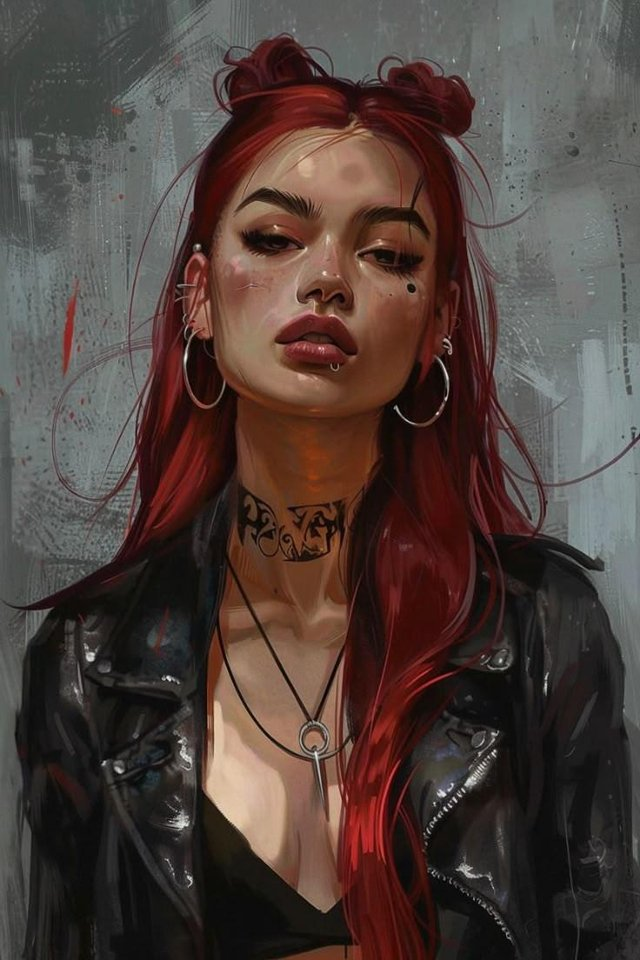
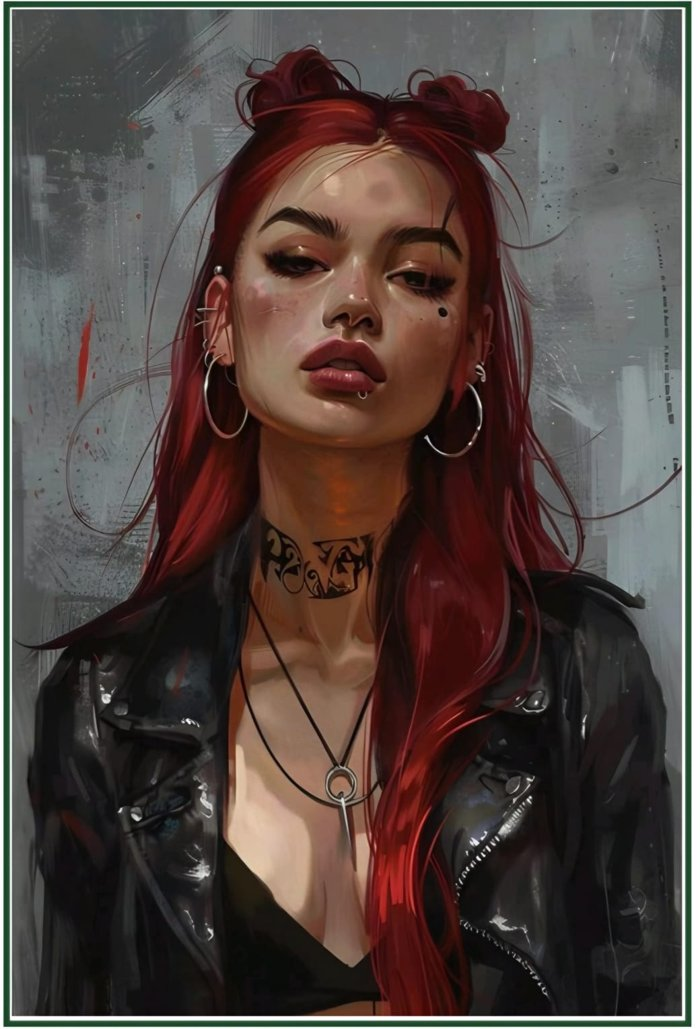
Update via push.bat 14.06.2026 20:08:49,85

diff --git a/src/seed.js b/src/seed.js
@@ -76,6 +76,8 @@ const characters = [
   // Stubs (Bögen folgen)
   ['multitool','Multitool','Patric','—','—',
    '—','Bogen folgt.','—','Connection: ein Hacker-Kontakt (in Run 1 am Sperrwerk genutzt).','Hacker-Kontakt (Name folgt)',40],
+  ['wardoc','WarDoc','Patric','Ork','Combat Medic / Strassendoc',
+   'Mundan (vermutlich).','Orkischer Sanitaeter, der das Team im Feld zusammenflickt. Robust und ruppig. Bogen folgt.','—','Details/Bogen folgen.','—',46],
   ['sparks','Sparks','Max','Hobgoblin','Chaosmagier',
    'Erwacht (Chaosmagier).','War in der Clubnacht; kennt Multitool. Bogen folgt.','—','—','Multitool',41],
   ['ronin','Ronin','Max','Mensch (schwer cybered, Essenz ~2,2)','Street Samurai',
@@ -117,14 +119,31 @@ const dossiers = {
   'ronin':['Schwer verkyberter Strassensamurai. Schnell, toedlich mit Klinge und Pistole. Wenig Worte.','Klingen · Pistolen · Akrobatik · Infiltration'],
   'patchdoc':['Erwachter Strassendoc mit Tech-Schlag — flickt Koerper und Code gleichermassen. Ungewoehnliche Erscheinung.','Medizin · Magie · Computer/Hardware · Hacking'],
   'sparks':['Hobgoblin-Chaosmagier, unberechenbar. War schon vor dem Job auf der Tanzflaeche.','Chaosmagie · Zauber'],
+  'wardoc':['Orkischer Combat-Medic. Holt Leute aus dem Feuer und flickt sie wieder zusammen. Robust, ruppig, zuverlaessig.','Medizin · Erste Hilfe · Biotech · Robust'],
 };
-const portraits = new Set(['al-be-rich','buffy','bull','ermina','kapitaen-flint','kiezchronist','mondkind','seven-lifes','walpurga']);
-const bfChar = db.prepare('UPDATE characters SET owner_id=COALESCE(owner_id,?), johnson_dossier=COALESCE(johnson_dossier,?), highlight_skills=COALESCE(highlight_skills,?), image=COALESCE(image,?) WHERE slug=?');
+const portraitData = {
+  'al-be-rich':['/static/img/chars/al-be-rich.jpg'],
+  'buffy':['/static/img/chars/buffy.jpg','/static/img/chars/buffy-2.jpg'],
+  'bull':['/static/img/chars/bull.jpg'],
+  'ermina':['/static/img/chars/ermina.jpg'],
+  'kapitaen-flint':['/static/img/chars/kapitaen-flint.jpg'],
+  'kiezchronist':['/static/img/chars/kiezchronist.jpg'],
+  'mondkind':['/static/img/chars/mondkind.jpg'],
+  'seven-lifes':['/static/img/chars/seven-lifes.jpg'],
+  'walpurga':['/static/img/chars/walpurga.jpg'],
+  'ronin':['/static/img/chars/ronin.jpg'],
+  'wardoc':['/static/img/chars/wardoc.jpg','/static/img/chars/wardoc-2.jpg'],
+};
+let slSum = {};
+try { slSum = require('./sl_summaries.json'); } catch (e) { console.error('sl_summaries', e); }
+const bfChar = db.prepare('UPDATE characters SET owner_id=COALESCE(owner_id,?), johnson_dossier=COALESCE(johnson_dossier,?), highlight_skills=COALESCE(highlight_skills,?), image=COALESCE(image,?), gallery=COALESCE(gallery,?), sl_summary=COALESCE(sl_summary,?) WHERE slug=?');
 for (const c of characters) {
   const oid = userByName[(c[2]||'').toLowerCase()] || null;
   const d = dossiers[c[0]] || [null,null];
-  const img = portraits.has(c[0]) ? ('/static/img/chars/'+c[0]+'.jpg') : null;
-  bfChar.run(oid, d[0], d[1], img, c[0]);
+  const arr = portraitData[c[0]] || null;
+  const img = arr ? arr[0] : null;
+  const gal = arr ? JSON.stringify(arr) : null;
+  bfChar.run(oid, d[0], d[1], img, gal, slSum[c[0]]||null, c[0]);
 }
 
 // ---------- CONNECTIONS (Spielerwissen, keine Plot-Geheimnisse) ----------
@@ -168,14 +187,14 @@ const runs = [
   { slug:'run-0', number:'Run 0', title:'Die undichte Stelle', date_played:'Vor dem Orkan „Njord“',
     participants:'Random, Multitool, Mondkind',
     location:'HafenCity · Wilhelmsburg · St. Pauli', time_from:'früher Abend', time_to:'Nacht (kurz vor der Flut)',
-    karma:'', nuyen:'2.500¥ pro Person (Ältermänner)', loot:'—',
+    karma:'6', nuyen:'2.500¥ pro Person (Ältermänner)', loot:'—',
     new_connections:'Konsul Jürgen Groot, Dr. Arvid Foss', involved_connections:'Konsul Jürgen Groot',
     actors:'Ältermänner · Proteus (Eingreifteam) · Tech-Squatter („Rust-Punx“)',
     summary:`Konsul Groot heuerte die Runner in der Elbphilharmonie an, einen abtrünnigen Proteus-Analysten — Dr. Arvid Foss — aus einem stillgelegten Pumpwerk in Wilhelmsburg zu holen, bevor der Konzern ihn zum Schweigen brachte. Während draußen die Flut stieg, verteidigten die Runner Foss gegen ein Proteus-Eingreifteam, töteten mehrere der Operativen und brachten ihn samt seinem Datenchip sicher zum „Klabautermann“. Auf dem Chip ein Codewort: „Medusa“. Beim Katerfrühstück im Diner stießen Sparks und Bull dazu — und die Runde war sich einig: Man kann die Menschen nicht einfach absaufen lassen.` },
   { slug:'run-1', number:'Run 1', title:'Das Auge des Sturms', date_played:'Orkan „Njord“, Nacht',
     participants:'Random, Multitool, Mondkind, Bull, Sparks',
     location:'St. Pauli · Finkenwerder · Nordsee/Watt · Flak-Turm', time_from:'Abend ~20:00', time_to:'tiefe Nacht ~23:45',
-    karma:'', nuyen:'3.000¥ pro Person (Likedeeler/Svenja)', loot:'—',
+    karma:'12', nuyen:'3.000¥ pro Person (Likedeeler/Svenja)', loot:'—',
     new_connections:'Käpt’n Svenja, Olaf „Schlickteufel“, Dr. Bisam, Juna',
     involved_connections:'Käpt’n Svenja',
     actors:'Likedeeler (Svenja & Vester) · Rote Korsaren · Wattsammler · ein Wasser-Avatar · Proteus (Drohne/Beobachter)',
@@ -183,20 +202,30 @@ const runs = [
   { slug:'run-2', number:'Run 2', title:'Kein Ort zum Heilen', date_played:'Der Morgen nach dem Sturm',
     participants:'Bull, Mondkind, Ronin, Multitool',
     location:'Steilshoop', time_from:'Morgen nach dem Sturm', time_to:'später Vormittag',
-    karma:'10 (Teil 2)',
+    karma:'16 gesamt (Teil 1: 6 · Teil 2: 10)',
     nuyen:'Loot-Verkauf 3.000¥ gesamt (je 1.000¥ an Bull, Mondkind, Ronin); Bisam-Lohn abgelehnt; −5.000¥ an die Triaden (Verhör/Entsorgung)',
     loot:'Medikament (Auftragsziel) + verkaufter Depot-Loot',
     new_connections:'—', involved_connections:'Dr. Bisam',
     actors:'Bakhtari-Clan · Vory · unbekanntes Extraktionsteam',
     summary:`In Dr. Bisams Klinik in Steilshoop trafen die Runner auf Ronin und übernahmen einen Auftrag: dringend benötigtes Medikament für die kranke Juna aus einem von den Bakhtari kontrollierten Depot beschaffen. Beim Zugriff kreuzten sich ihre Wege mit der Vory. Als sie zurückkamen, war ein Team gut ausgerüsteter Profis dabei, Juna aus der Klinik zu entführen — jemand mit Geld will das Mädchen. Die Runner schlugen den Zugriff zurück, verhörten und „entsorgten“ über die Triaden einen Gefangenen und brachten Juna in Sicherheit.` },
+  { slug:'retten-seebunker-kid', number:'', title:'Retten des reichen Kids aus dem Seebunker', date_played:'vor den HDL-Runs', karma:'10', summary:'Details werden von der Spielleitung (Alex) ergaenzt.', owner:'alex', sort:5 },
+  { slug:'weihnachtsrun', number:'', title:'Stille Nacht, toedliche Nacht', date_played:'Weihnachten', karma:'12', summary:'Weihnachtsrun. Details werden von der Spielleitung (Benjamin) ergaenzt.', owner:'benjamin', sort:7 },
+  { slug:'vier-naegel', number:'', title:'4 Naegel stehlen', date_played:'parallel zu den HDL-Runs (Datum: Alex)', karma:'10', summary:'Details werden von der Spielleitung (Alex) ergaenzt.', owner:'alex', sort:40 },
+  { slug:'zenzus-retten', number:'', title:'Zenzus retten', date_played:'parallel zu den HDL-Runs (Datum: Alex)', karma:'10', summary:'Details werden von der Spielleitung (Alex) ergaenzt.', owner:'alex', sort:50 },
+  { slug:'klaerwerk-toxischer-geist', number:'', title:'Klaerwerk - Toxischer Geist', date_played:'parallel zu den HDL-Runs (Datum: Alex)', karma:'10', summary:'Details werden von der Spielleitung (Alex) ergaenzt.', owner:'alex', sort:60 },
+  { slug:'untertauchen-klaerwerk', number:'', title:'Untertauchen nach dem Klaerwerk', date_played:'parallel zu den HDL-Runs (Datum: Alex)', karma:'10', summary:'Details werden von der Spielleitung (Alex) ergaenzt.', owner:'alex', sort:65 },
 ];
 const rcols = ['slug','number','title','date_played','participants','location','time_from','time_to','karma','nuyen','loot','new_connections','involved_connections','actors','summary'];
 const insRun = db.prepare(`INSERT OR IGNORE INTO runs (${rcols.join(',')},images,owner_id,sort) VALUES (${rcols.map(()=>'?').join(',')},'[]',?,?)`);
 const bfRun = db.prepare(`UPDATE runs SET location=COALESCE(location,?), time_from=COALESCE(time_from,?), time_to=COALESCE(time_to,?), karma=COALESCE(karma,?), nuyen=COALESCE(nuyen,?), loot=COALESCE(loot,?), new_connections=COALESCE(new_connections,?), involved_connections=COALESCE(involved_connections,?), actors=COALESCE(actors,?), owner_id=COALESCE(owner_id,?) WHERE slug=?`);
+const uid = (un) => (db.prepare('SELECT id FROM users WHERE username=?').get(un) || {}).id || benId;
 let _ri = 0;
 for (const r of runs) {
-  insRun.run(...rcols.map(c => r[c]), benId, 10 + (_ri++ * 10));
-  bfRun.run(r.location, r.time_from, r.time_to, r.karma, r.nuyen, r.loot, r.new_connections, r.involved_connections, r.actors, benId, r.slug);
+  const oid = uid(r.owner || 'benjamin');
+  const so = (r.sort != null) ? r.sort : 10 + (_ri * 10);
+  _ri++;
+  insRun.run(...rcols.map(c => (r[c] == null ? '' : r[c])), oid, so);
+  bfRun.run(r.location||'', r.time_from||'', r.time_to||'', r.karma||'', r.nuyen||'', r.loot||'', r.new_connections||'', r.involved_connections||'', r.actors||'', oid, r.slug);
 }
 
 // ---------- TIMELINE ----------
@@ -232,6 +261,34 @@ const maps = [
 const insMap = db.prepare(`INSERT OR IGNORE INTO maps (slug,title,image,note,sort) VALUES (?,?,?,?,?)`);
 if (db.prepare('SELECT COUNT(*) c FROM maps').get().c === 0)
   for (const m of maps) insMap.run(...m);
+
+
+// ---------- FRAKTIONEN (Spielerwissen, spoilerfrei) ----------
+const factions = [
+  ['likedeeler','Likedeeler','Piraten / Freibeuter','Gemischt',
+   'Die freien Schiffer und Schmuggler der Elbe. Gespalten: ein traditioneller Fluegel um Kaeptn Svenja haelt zur Stadt, andere wie Jens Vester spielen ihr eigenes Spiel.','Kaeptn Svenja, Jens „Haifisch“ Vester, Warentester Klaas',10],
+  ['aeltermaenner','Die Aeltermaenner','Hanseatische Elite','Auftraggeber',
+   'Die alte Hamburger Garde — Politik, Geld, Diskretion. Heuern die Runner ueber Mittelsmaenner an und zahlen gut.','Konsul Juergen Groot, Senator Julian von Ahrensburg',20],
+  ['proteus','Proteus','Konzern (AA)','Undurchsichtig / gegnerisch',
+   'Ein verschwiegener Meerestechnik-Konzern mit Arkologien in der Nordsee. Die Runde geriet bereits mit Proteus aneinander. Was sie wirklich vorhaben, ist offen.','—',30],
+  ['mandelzirkel','Mandelzirkel','Spirituelle Gemeinschaft','Verbuendet / neutral',
+   'Ein Bund von Geisterkundigen und Voodoo-Praktizierenden, der fuer das spirituelle Gleichgewicht der Stadt einsteht.','Mama Mamba',40],
+  ['wattsammler','Wattsammler','Kommune','Neutral / schutzbeduerftig',
+   'Eine raue Gemeinschaft, die im Watt von dem lebt, was die Gezeiten freigeben. In Run 1 vom Flak-Turm gerettet.','Olaf „Schlickteufel“, Juna',50],
+  ['rote-korsaren','Rote Korsaren','Piraten','Feindlich',
+   'Brutale, drogengepushte Freibeuter, die in fremden Revieren wildern. In Run 1 stuermten sie den Flak-Turm.','Der Maat (gefallen)',60],
+  ['vory','Vory v Zakone','Syndikat','Neutral (pragmatisch)',
+   'Russisches Verbrechersyndikat, kontrolliert Logistik und Schwarzmarkt. In Run 2 kreuzten sich die Wege im Depot.','—',70],
+  ['triaden','Triaden','Syndikat','Dienstleister (neutral)',
+   'Spezialisiert auf diskrete Dienste, Artefakte und Schmuggel. In Run 2 fuer Verhoer und Entsorgung engagiert.','—',80],
+  ['bakhtari-clan','Bakhtari-Clan','Lokaler Clan','Neutral (territorial)',
+   'Beherrscht Teile von Steilshoop; pragmatisch, solange man sein Revier respektiert.','Cihan Bakhtari',90],
+  ['weg-der-reinheit','Weg der Reinheit','Buergerbewegung','Hilfsbereit (Stand des Wissens)',
+   'Eine quasi-religioese Wohltaetigkeitsbewegung, die nach dem Sturm Feldlazarette und Suppenkuechen betreibt. Pater Gregor gilt als Wohltaeter.','Pater Gregor',100],
+];
+const insFac = db.prepare(`INSERT OR IGNORE INTO factions (slug,name,category,status,description,notable_members,sort) VALUES (?,?,?,?,?,?,?)`);
+if (db.prepare('SELECT COUNT(*) c FROM factions').get().c === 0)
+  for (const f of factions) insFac.run(...f);
 
 console.log('Seed OK. Default-Passwort fuer alle Logins:', PW);
 console.log('Logins:', users.map(u=>u[0]).join(', '));

diff --git a/src/app.js b/src/app.js
@@ -113,7 +113,8 @@ app.get('/characters/:slug', loadChar, (req, res) => {
   const conns = db.prepare("SELECT * FROM connections WHERE shared_by LIKE '%'||?||'%' ORDER BY campaign_relevant DESC, name").all(c.name);
   const runs = db.prepare("SELECT slug,number,title,date_played FROM runs WHERE participants LIKE '%'||?||'%' ORDER BY sort").all(c.name);
   const logs = canEdit ? db.prepare('SELECT * FROM char_logs WHERE char_slug=? ORDER BY created_at DESC').all(c.slug) : [];
-  res.render('character', { title: c.name, c, canEdit, conns, runs, logs });
+  let galleryArr = []; try { galleryArr = JSON.parse(c.gallery || '[]'); } catch (e) {}
+  res.render('character', { title: c.name, c, canEdit, conns, runs, logs, galleryArr });
 });
 app.post('/characters/:slug', loadChar, (req, res) => {
   if (!mayEditChar(req, res)) return res.status(403).render('error', { title: 'Kein Zugriff', msg: 'Nur SL oder der eigene Spieler.' });
@@ -126,9 +127,27 @@ app.post('/characters/:slug/sheet', loadChar, uploadDoc.single('sheet'), (req, r
   if (req.file) db.prepare('UPDATE characters SET sheet=? WHERE slug=?').run(req.file.filename, req.char.slug);
   res.redirect('/characters/' + req.char.slug);
 });
-app.post('/characters/:slug/image', loadChar, upload.single('image'), (req, res) => {
+app.post('/characters/:slug/images', loadChar, upload.array('images', 12), (req, res) => {
   if (!mayEditChar(req, res)) return res.status(403).end();
-  if (req.file) db.prepare('UPDATE characters SET image=? WHERE slug=?').run(req.file.filename, req.char.slug);
+  let gal = []; try { gal = JSON.parse(req.char.gallery || '[]'); } catch (e) {}
+  for (const f of (req.files || [])) gal.push(f.filename);
+  const title = req.char.image || (gal[0] || null);
+  db.prepare('UPDATE characters SET gallery=?, image=COALESCE(image,?) WHERE slug=?').run(JSON.stringify(gal), title, req.char.slug);
+  res.redirect('/characters/' + req.char.slug);
+});
+app.post('/characters/:slug/title', loadChar, (req, res) => {
+  if (!mayEditChar(req, res)) return res.status(403).end();
+  let gal = []; try { gal = JSON.parse(req.char.gallery || '[]'); } catch (e) {}
+  if (gal.includes(req.body.ref)) db.prepare('UPDATE characters SET image=? WHERE slug=?').run(req.body.ref, req.char.slug);
+  res.redirect('/characters/' + req.char.slug);
+});
+app.post('/characters/:slug/image-del', loadChar, (req, res) => {
+  if (!mayEditChar(req, res)) return res.status(403).end();
+  let gal = []; try { gal = JSON.parse(req.char.gallery || '[]'); } catch (e) {}
+  gal = gal.filter(g => g !== req.body.ref);
+  let img = req.char.image;
+  if (img === req.body.ref) img = gal[0] || null;
+  db.prepare('UPDATE characters SET gallery=?, image=? WHERE slug=?').run(JSON.stringify(gal), img, req.char.slug);
   res.redirect('/characters/' + req.char.slug);
 });
 app.post('/characters/:slug/log', loadChar, (req, res) => {
@@ -296,6 +315,34 @@ app.post('/sl/maps', requireSL, upload.single('image'), (req, res) => {
       .run(slug, req.body.title || 'Karte', req.file.filename, req.body.note || '', maxSort);
   }
   res.redirect('/maps');
+});
+
+// ---------- FRAKTIONEN ----------
+app.get('/factions', (req, res) => {
+  const rows = db.prepare('SELECT * FROM factions ORDER BY sort, name').all();
+  res.render('factions', { title: 'Fraktionen', rows });
+});
+app.get('/factions/:slug', (req, res) => {
+  const f = db.prepare('SELECT * FROM factions WHERE slug=?').get(req.params.slug);
+  if (!f) return res.status(404).render('error', { title: '404', msg: 'Fraktion nicht gefunden.' });
+  res.render('faction', { title: f.name, f });
+});
+app.post('/sl/factions', requireSL, (req, res) => {
+  const slug = (req.body.name || ('fraktion-' + Date.now())).toLowerCase().replace(/[^a-z0-9]+/g, '-');
+  const maxSort = (db.prepare('SELECT MAX(sort) m FROM factions').get().m || 0) + 10;
+  db.prepare('INSERT OR IGNORE INTO factions (slug,name,category,status,description,notable_members,sort) VALUES (?,?,?,?,?,?,?)')
+    .run(slug, req.body.name || 'Neue Fraktion', '', '', '', '', maxSort);
+  res.redirect('/factions/' + slug);
+});
+app.post('/sl/faction/:slug', requireSL, (req, res) => {
+  const b = req.body;
+  db.prepare('UPDATE factions SET name=?,category=?,status=?,description=?,notable_members=? WHERE slug=?')
+    .run(b.name, b.category, b.status, b.description, b.notable_members, req.params.slug);
+  res.redirect('/factions/' + req.params.slug);
+});
+app.post('/sl/faction/:slug/img', requireSL, upload.single('image'), (req, res) => {
+  if (req.file) db.prepare('UPDATE factions SET image=? WHERE slug=?').run(req.file.filename, req.params.slug);
+  res.redirect('/factions/' + req.params.slug);
 });
 
 app.use((req, res) => res.status(404).render('error', { title: '404', msg: 'Seite nicht gefunden.' }));

diff --git a/src/db.js b/src/db.js
@@ -65,9 +65,11 @@ try {
 // --- Migration: erweiterte Charakter-Felder + Char-Logs ---
 try {
   const cc = db.prepare("PRAGMA table_info(characters)").all().map(c => c.name);
-  const addc = { owner_id:'INTEGER', johnson_dossier:'TEXT', highlight_skills:'TEXT', sl_summary:'TEXT', background:'TEXT', background_sl:'TEXT', sheet:'TEXT' };
+  const addc = { owner_id:'INTEGER', johnson_dossier:'TEXT', highlight_skills:'TEXT', sl_summary:'TEXT', background:'TEXT', background_sl:'TEXT', sheet:'TEXT', gallery:'TEXT' };
   for (const [c,t] of Object.entries(addc)) if (!cc.includes(c)) db.exec(`ALTER TABLE characters ADD COLUMN ${c} ${t}`);
 } catch (e) { console.error('char migration', e); }
+db.exec(`CREATE TABLE IF NOT EXISTS factions (
+  id INTEGER PRIMARY KEY, slug TEXT UNIQUE NOT NULL, name TEXT NOT NULL, category TEXT, status TEXT, description TEXT, notable_members TEXT, image TEXT, sort INTEGER DEFAULT 100);`);
 db.exec(`CREATE TABLE IF NOT EXISTS char_logs (
   id INTEGER PRIMARY KEY, char_slug TEXT NOT NULL, user_id INTEGER, author TEXT, title TEXT, body TEXT, created_at TEXT);`);
 

diff --git a/public/css/style.css b/public/css/style.css
@@ -167,3 +167,6 @@ details.panel summary::-webkit-details-marker{display:none}
 /* Charakter-Bilder: vollstaendig zeigen, zentriert, schwarze Balken statt Beschnitt */
 .char-thumb{object-fit:contain !important;background:#000;height:210px}
 .char-avatar{object-fit:contain !important;background:#000}
+
+/* Charakter-Galerie: vollstaendig zeigen */
+.char-gal{object-fit:contain !important;background:#000;height:150px;width:100%;border:1px solid var(--line2);border-radius:6px}